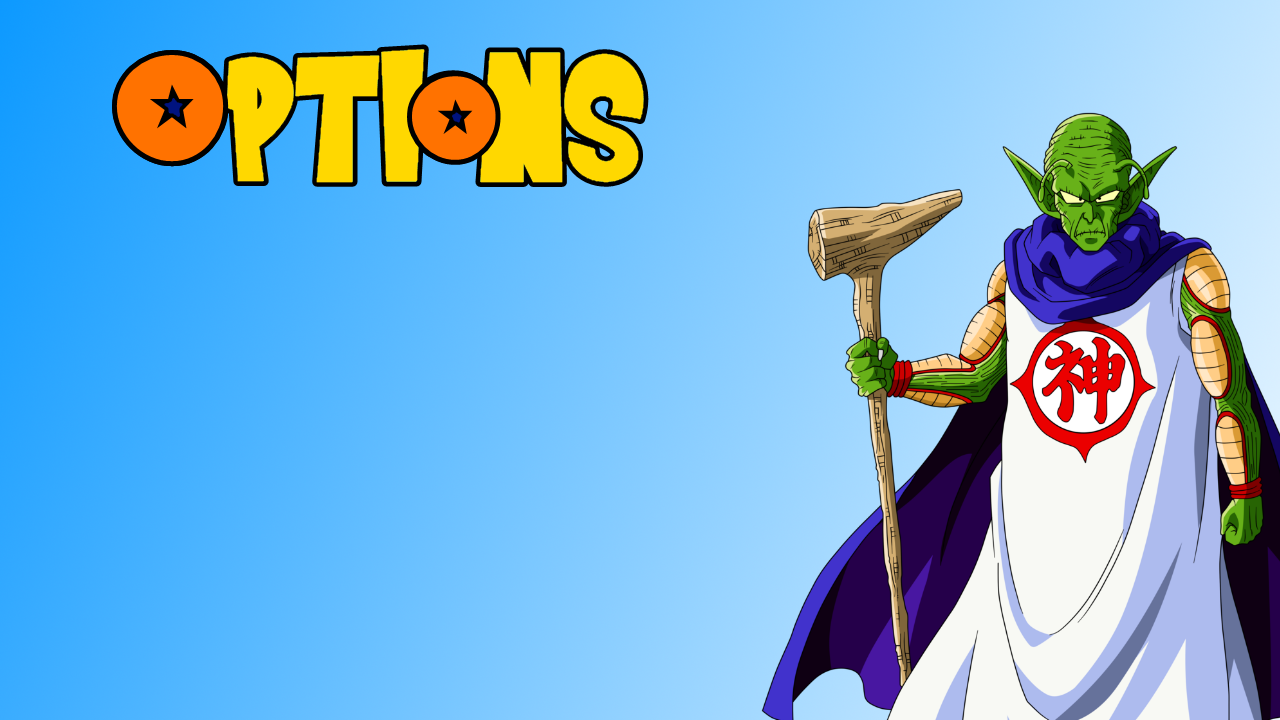
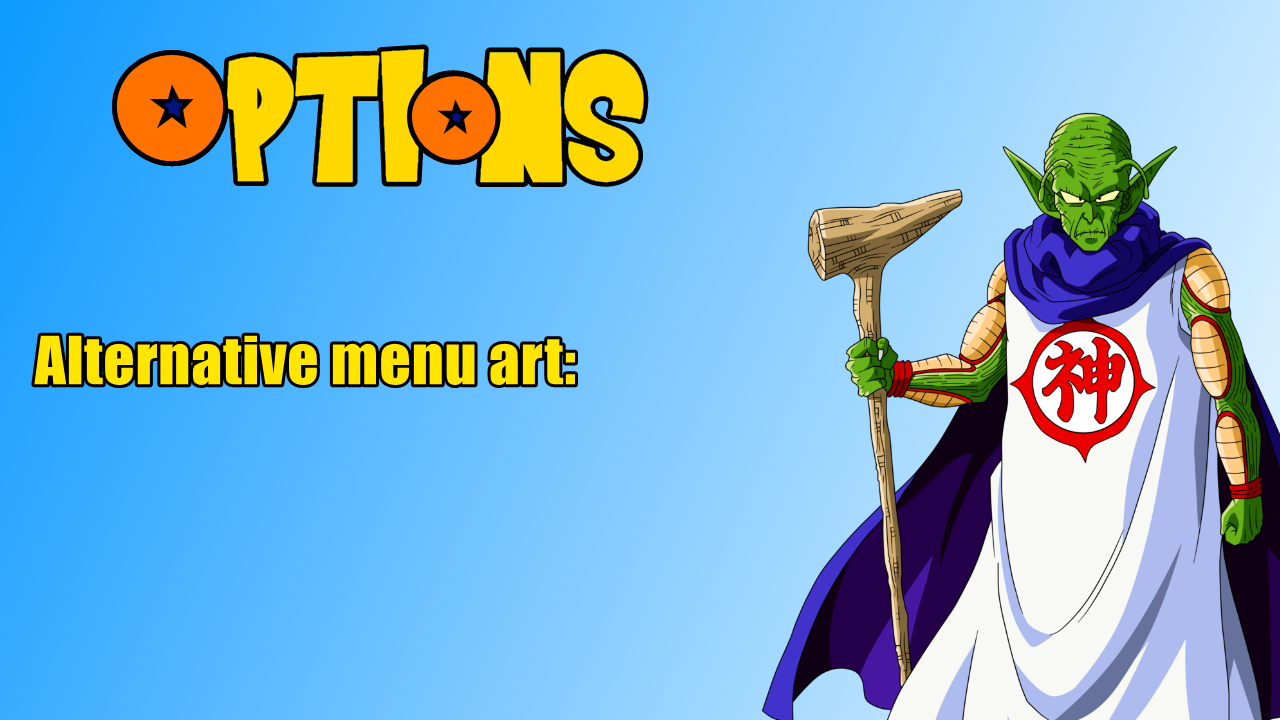
Alternative art mnu option

Changed region(s): [[0.0, 0.4583, 0.4688, 0.55]]

diff --git a/src/br/com/joaofzm15/piccolo/ui/frames/OptionsFrame.java b/src/br/com/joaofzm15/piccolo/ui/frames/OptionsFrame.java
@@ -1,5 +1,7 @@
 package br.com.joaofzm15.piccolo.ui.frames;
 
+import java.awt.Color;
+import java.awt.Font;
 import java.awt.event.ActionEvent;
 import java.awt.event.ActionListener;
 
@@ -13,6 +15,10 @@ public class OptionsFrame implements ActionListener {
 	private Frame frame;
 
 	private Button mainMenu;
+	
+	private Button toggleAlternativeArtButton;
+	
+	public static boolean alternativeMenuArt = false;
 
 	public OptionsFrame() {
 
@@ -22,8 +28,27 @@ public class OptionsFrame implements ActionListener {
 		mainMenu.getJComponent().addActionListener(this);
 		frame.add(mainMenu);
 		
+		if (alternativeMenuArt) {
+			toggleAlternativeArtButton = new Button(600, 320, 90, 90, "ON", 230, 230, 0, 30);
+		} else {
+			toggleAlternativeArtButton = new Button(600, 320, 90, 90, "OFF", 40, 40, 40, 30);
+		}
+		toggleAlternativeArtButton.getJComponent().addActionListener(this);
+		frame.add(toggleAlternativeArtButton);
+		
 		frame.makeFrameVisible();
-
+	}
+	
+	public void toggleArternativeArtOnOff() {
+		if (alternativeMenuArt) {
+			alternativeMenuArt=false;
+			toggleAlternativeArtButton.getJComponent().setText("OFF");
+			toggleAlternativeArtButton.getJComponent().setBackground(new Color(40,40,40));
+		} else {
+			alternativeMenuArt=true;
+			toggleAlternativeArtButton.getJComponent().setText("ON");
+			toggleAlternativeArtButton.getJComponent().setBackground(new Color(230,230,0));
+		}
 	}
 
 	@Override
@@ -33,6 +58,10 @@ public class OptionsFrame implements ActionListener {
 		if (e.getSource() == mainMenu.getJComponent()) {
 			frame.dispose();
 			new MenuFrame();
+		}
+		
+		if (e.getSource() == toggleAlternativeArtButton.getJComponent()) {
+			toggleArternativeArtOnOff();
 		}
 	}
 

diff --git a/src/br/com/joaofzm15/piccolo/ui/Main.java b/src/br/com/joaofzm15/piccolo/ui/Main.java
@@ -1,6 +1,7 @@
 package br.com.joaofzm15.piccolo.ui;
 
 import br.com.joaofzm15.piccolo.ui.frames.MenuFrame;
+import br.com.joaofzm15.piccolo.ui.frames.OptionsFrame;
 import br.com.joaofzm15.piccolo.ui.uiEntities.BackgroundMusic;
 
 public class Main {
@@ -8,6 +9,7 @@ public class Main {
 	public static void main(String[] args) {
 		Thread backgroundMusic = new Thread(new BackgroundMusic());
 		backgroundMusic.start();
+		
 		new MenuFrame();
 	}
 }

diff --git a/src/br/com/joaofzm15/piccolo/ui/frames/MenuFrame.java b/src/br/com/joaofzm15/piccolo/ui/frames/MenuFrame.java
@@ -21,7 +21,12 @@ public class MenuFrame implements ActionListener {
 
 	public MenuFrame() {
 
-		frame = new Frame("menuBackground.png");
+		if (OptionsFrame.alternativeMenuArt) {
+		frame = new Frame("darkmenuBackground.png");
+		} else {
+			frame = new Frame("menuBackground.png");
+		}
+			
 
 		logo = new Label(700, 35, 465, 181, "logo.png");
 		frame.add(logo);
